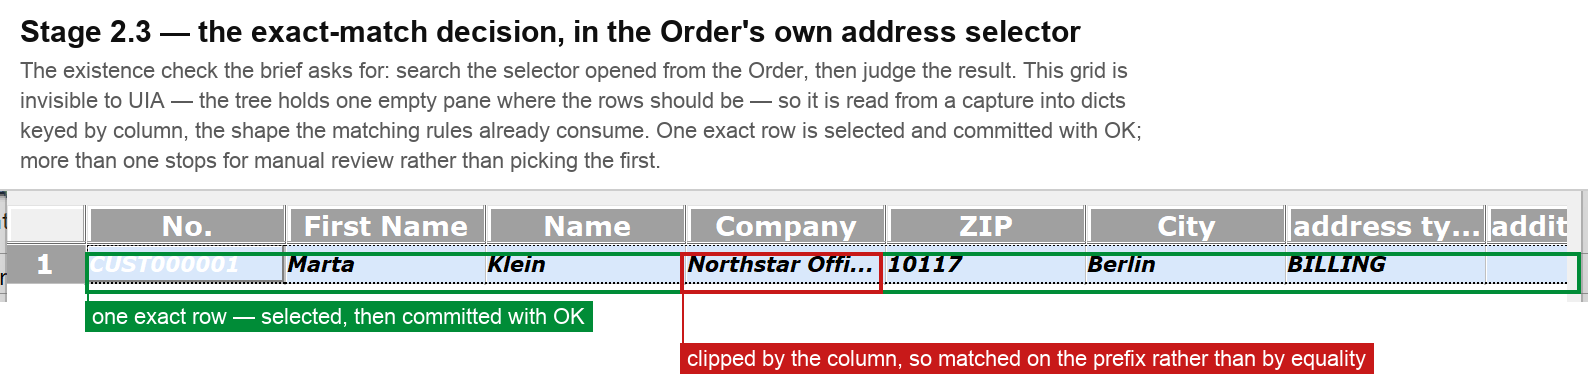
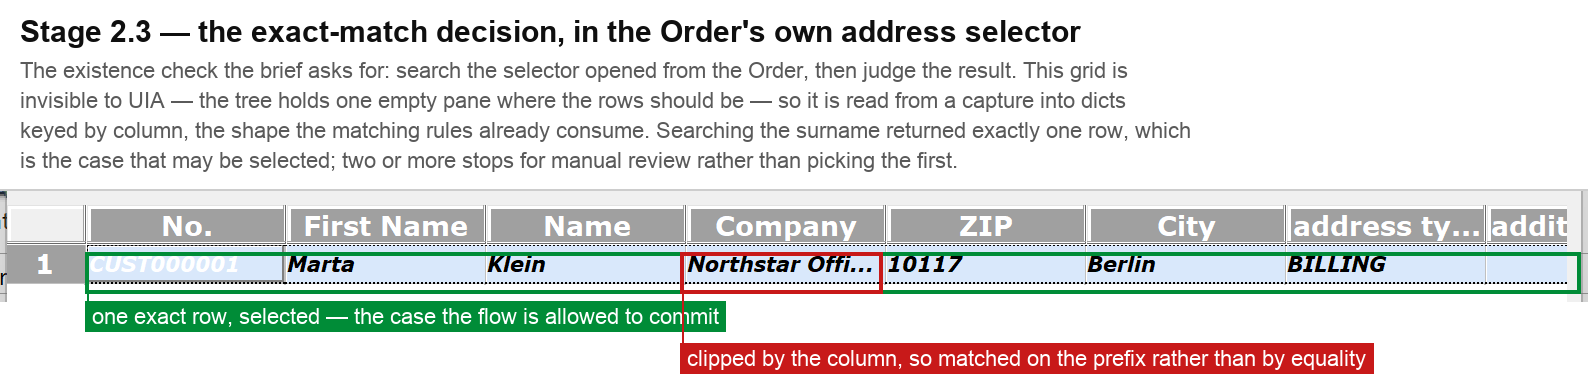
drop an empty screenshot, fix a misleading caption

Changed region(s): [[0.4011, 0.3077, 0.7714, 0.3692], [0.0, 0.4, 0.6171, 0.4308], [0.1543, 0.7692, 0.4628, 0.8615]]

diff --git a/docs/screenshots/README.md b/docs/screenshots/README.md
@@ -1,11 +1,14 @@
 # Annotated screenshots
 
-Five points in the flow, in the order they happen: the two decisions that drive the
-creation branches, then the three results the brief asks to have verified.
+Four points in the flow: the decision that drives the Debtor branch, then the three
+results the brief asks to have verified.
 
 All of these come from the real application, captured by the same code the flow uses.
 `vision.capture_region` grabs the framebuffer rather than asking a control to paint
 itself, because SWT draws through Java and `PrintWindow` returns a black rectangle.
+
+**Where each one comes from** is stated below rather than left to be assumed, because two
+different runs are involved and they prove different things.
 
 ## 1. The Debtor existence check — stage 2.3
 
@@ -16,33 +19,29 @@ should be, the tree holds a single empty pane. It is read from a capture into di
 by column, which is the shape `matching.py` already consumes. Note the clipped `Company`
 cell, which is why a match is tested on the prefix rather than by equality.
 
-## 2. The Product existence check — stage 3.3
+*From a diagnostic probe against the live application, not from a full run.* The search
+and the selection are real; the probe stopped before committing, so this shows the
+decision rather than its outcome.
 
-![product selector](02-product-selector.png)
+## 2. The saved Order — stage 4
 
-The same shape of check, per item line, matched on the SKU alone. An empty result is what
-sends the flow to the creation branch: resolve the VAT rate first, create the Product,
-then come back and re-select it onto the still-open Order.
-
-## 3. The saved Order — stage 4
-
-![saved order](03-order-saved.png)
+![saved order](02-order-saved.png)
 
 Both products resolved through the Order's own selector, quantities written into the
 drawn Items grid through its cell editors, and Total Net, VAT and Total checked against
 the source document *before* the single save the brief allows.
 
-## 4. The linked Invoice — stage 5
+## 3. The linked Invoice — stage 5
 
-![linked invoice](04-invoice-linked.png)
+![linked invoice](03-invoice-linked.png)
 
 Created from the Order's own **Create a follow-up document** group rather than the
 toolbar, which is what preserves the Order relationship, then checked field by field
 against the source document before its payment status was applied.
 
-## 5. The final verification — stage 5.5
+## 4. The final verification — stage 5.5
 
-![final verification](05-final-verification.png)
+![final verification](04-final-verification.png)
 
 The Invoice listed as **paid** for 737.80, with its source Order still listed as **open**
 for the same total. This is the check the whole design is built around: the editor shows
@@ -50,7 +49,8 @@ what was typed, and Data > Documents shows what Fakturama actually stored.
 
 ---
 
-Screenshots 3 to 5 come from one continuous run against a database where the master data
-already existed, so the creation branches did not execute in it. Screenshots 1 and 2 are
-from runs against an empty database, where they did. The run logs, not these images, are
-the evidence for the creation branches end to end.
+Screenshots 2 to 4 are one continuous run, ending in a saved and verified Invoice. That
+run went against a database where the master data already existed, so the creation
+branches did not execute in it. The creation branches — payment method, Debtor with a
+separate delivery address, VAT rate and both Products — were exercised against an empty
+database in a later run, and the run log rather than an image is the evidence for those.
